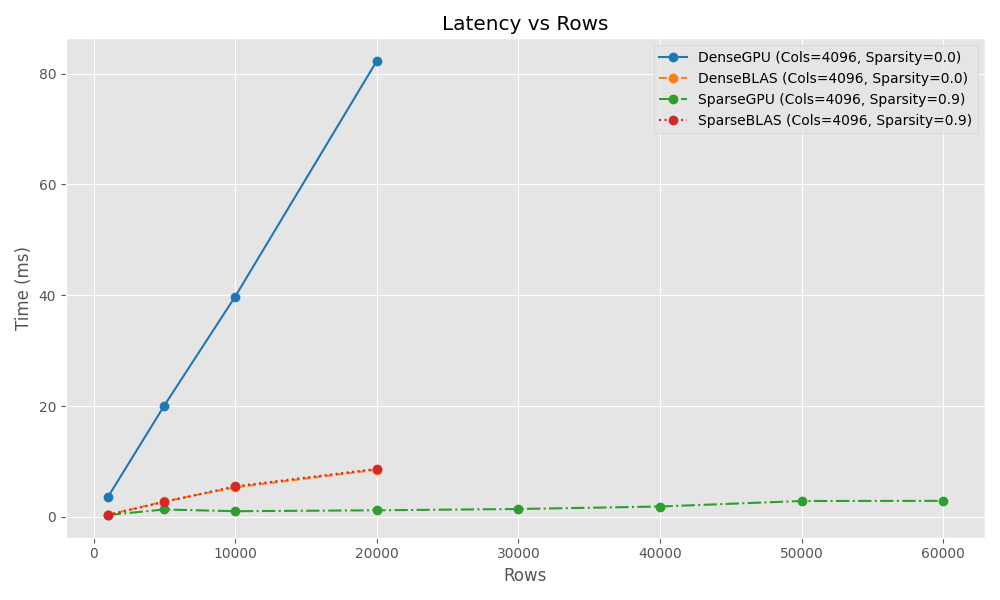
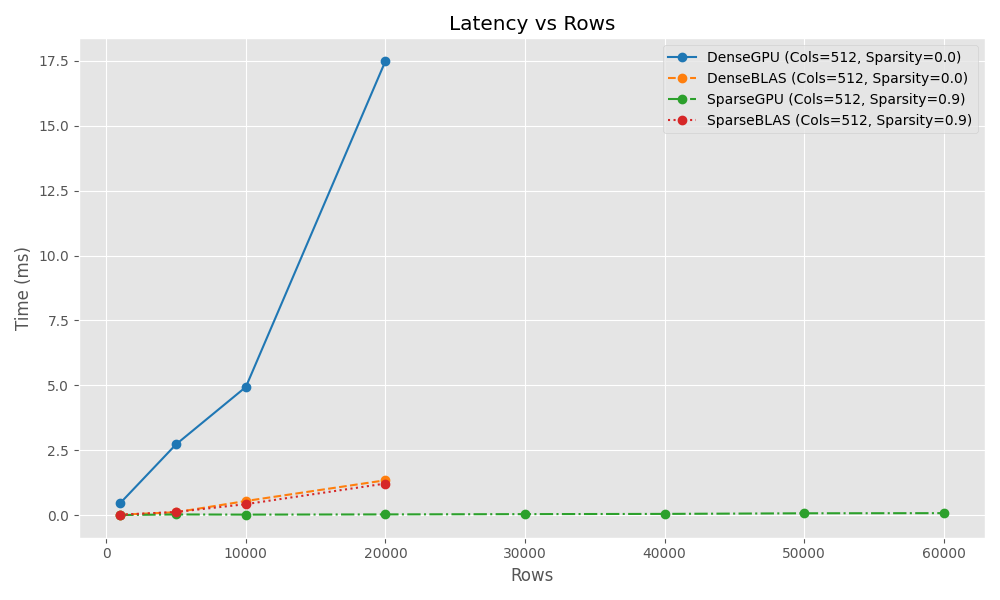
add log graphs

diff --git a/draw.py b/draw.py
@@ -28,11 +28,11 @@ line_styles = {
     'SparseBLAS': ':'
 }
 
-# Output directory
+# Ensure output directory
 os.makedirs("images", exist_ok=True)
 
-# Plot function with hardcoded dense sparsity = 0.0, selectable sparse sparsity
-def plot_with_fixed_dense_and_selectable_sparse(metric, param, fixed_values, sparse_sparsity, ylabel, title):
+# Plot function with optional log scale
+def plot_with_fixed_dense_and_selectable_sparse(metric, param, fixed_values, sparse_sparsity, ylabel, title, log_y=False):
     plt.figure(figsize=(10, 6))
 
     # ---- Dense methods ----
@@ -75,6 +75,9 @@ def plot_with_fixed_dense_and_selectable_sparse(metric, param, fixed_values, spa
 
     plt.xlabel(param)
     plt.ylabel(ylabel)
+    if log_y:
+        plt.yscale("log")
+        title += " (Log Scale)"
     plt.title(title)
     plt.legend()
     plt.tight_layout()
@@ -83,18 +86,25 @@ def plot_with_fixed_dense_and_selectable_sparse(metric, param, fixed_values, spa
     plt.close()
 
 # === CONFIGURATION ===
-# Fixed values (except x-axis param and sparsity for sparse)
 fixed_values = {
     "Rows": 5000,
-    "Cols": 4096
+    "Cols": 512
 }
-# You choose the sparsity to use for Sparse methods
 selected_sparse_sparsity = 0.9
 
-# === PLOTS ===
-plot_with_fixed_dense_and_selectable_sparse("Avg Inference (50 times) Time (ms)", "Rows", fixed_values, selected_sparse_sparsity, "Time (ms)", "Latency vs Rows")
-plot_with_fixed_dense_and_selectable_sparse("GFLOPS", "Rows", fixed_values, selected_sparse_sparsity, "GFLOPS", "GFLOPS vs Rows")
-plot_with_fixed_dense_and_selectable_sparse("Avg Inference (50 times) Time (ms)", "Cols", fixed_values, selected_sparse_sparsity, "Time (ms)", "Latency vs Cols")
-plot_with_fixed_dense_and_selectable_sparse("GFLOPS", "Cols", fixed_values, selected_sparse_sparsity, "GFLOPS", "GFLOPS vs Cols")
-plot_with_fixed_dense_and_selectable_sparse("Avg Inference (50 times) Time (ms)", "Sparsity", fixed_values, selected_sparse_sparsity, "Time (ms)", "Latency vs Sparsity")
-plot_with_fixed_dense_and_selectable_sparse("GFLOPS", "Sparsity", fixed_values, selected_sparse_sparsity, "GFLOPS", "GFLOPS vs Sparsity")
+# === PLOT CALLS ===
+# Latency plots (only linear)
+# for axis in ["Rows", "Cols", "Sparsity"]:
+#     plot_with_fixed_dense_and_selectable_sparse("Avg Inference (50 times) Time (ms)", axis, fixed_values, selected_sparse_sparsity, "Time (ms)", f"Time (ms) vs {axis}")
+#     plot_with_fixed_dense_and_selectable_sparse("Avg Inference (50 times) Time (ms)", axis, fixed_values, selected_sparse_sparsity, "Time (ms)", f"Time (ms) vs {axis}", log_y=True)
+
+# plot_with_fixed_dense_and_selectable_sparse("Avg Inference (50 times) Time (ms)", "Rows", fixed_values, selected_sparse_sparsity, "Time (ms)", "Latency vs Rows")
+# plot_with_fixed_dense_and_selectable_sparse("Avg Inference (50 times) Time (ms)", "Cols", fixed_values, selected_sparse_sparsity, "Time (ms)", "Latency vs Cols")
+# plot_with_fixed_dense_and_selectable_sparse("Avg Inference (50 times) Time (ms)", "Sparsity", fixed_values, selected_sparse_sparsity, "Time (ms)", "Latency vs Sparsity")
+
+# GFLOPS plots (linear + log scale)
+for axis in ["Rows", "Cols", "Sparsity"]:
+    plot_with_fixed_dense_and_selectable_sparse("GFLOPS", axis, fixed_values, selected_sparse_sparsity, "GFLOPS", f"GFLOPS vs {axis}")
+    plot_with_fixed_dense_and_selectable_sparse("GFLOPS", axis, fixed_values, selected_sparse_sparsity, "GFLOPS", f"GFLOPS vs {axis}", log_y=True)
+    plot_with_fixed_dense_and_selectable_sparse("Avg Inference (50 times) Time (ms)", axis, fixed_values, selected_sparse_sparsity, "Time (ms)", f"Time (ms) vs {axis}")
+    plot_with_fixed_dense_and_selectable_sparse("Avg Inference (50 times) Time (ms)", axis, fixed_values, selected_sparse_sparsity, "Time (ms)", f"Time (ms) vs {axis}", log_y=True)
